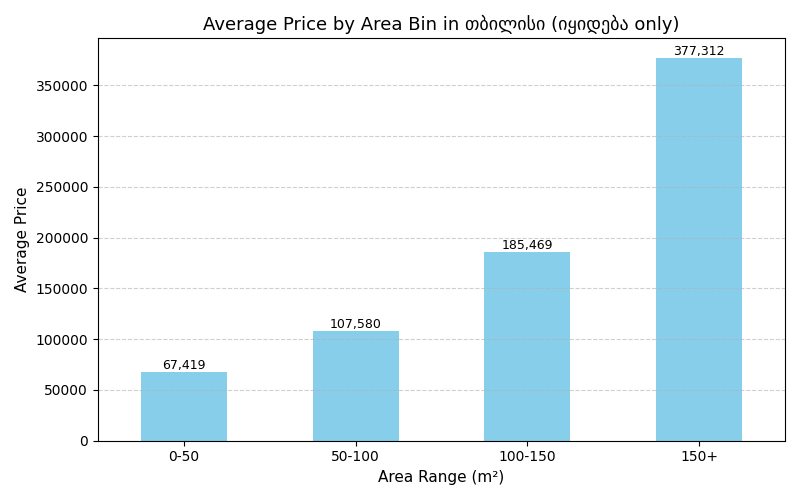
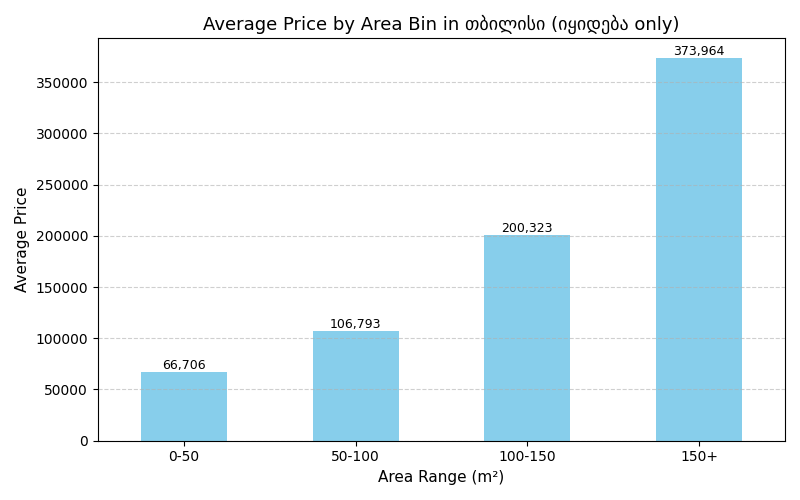
more data, updated charts

diff --git a/frontend/html/analysis.html b/frontend/html/analysis.html
@@ -1,28 +1,30 @@
-<div id="analysis-view">
-  <h1 class="text-3xl font-bold text-center text-gray-800 mb-8">
-    Apartment Analysis Dashboard
-  </h1>
+<body class="min-h-screen flex flex-col"></body>
+  <div id="analysis-view" class="flex flex-col flex-1">
+    <h1 class="text-3xl font-bold text-center text-gray-800 mb-8">
+      Apartment Analysis Dashboard
+    </h1>
 
-  <nav class="flex flex-col items-center gap-4">
-    <div class="text-center space-x-2">
-      <button id="btn-distribution" class="px-4 py-2 rounded-md text-white bg-gray-800 hover:bg-green-600 transition-colors active:bg-green-600">City Distribution</button>
-      <button id="btn-price-by-city" class="px-4 py-2 rounded-md text-white bg-gray-800 hover:bg-green-600 transition-colors">Avg Price by City</button>
-      <button id="btn-price-per-sqm" class="px-4 py-2 rounded-md text-white bg-gray-800 hover:bg-green-600 transition-colors">Avg Price per m² by City</button>
-      <button id="btn-price-by-street" class="px-4 py-2 rounded-md text-white bg-gray-800 hover:bg-green-600 transition-colors">Avg Price by Street</button>
-      <button id="btn-area-bin" class="px-4 py-2 rounded-md text-white bg-gray-800 hover:bg-green-600 transition-colors">Price by Area Bin per City</button>
+    <nav class="flex flex-col items-center gap-4">
+      <div class="text-center space-x-2">
+        <button id="btn-distribution" class="px-4 py-2 rounded-md text-white bg-gray-800 hover:bg-green-600 transition-colors active:bg-green-600">City Distribution</button>
+        <button id="btn-price-by-city" class="px-4 py-2 rounded-md text-white bg-gray-800 hover:bg-green-600 transition-colors">Avg Price by City</button>
+        <button id="btn-price-per-sqm" class="px-4 py-2 rounded-md text-white bg-gray-800 hover:bg-green-600 transition-colors">Avg Price per m² by City</button>
+        <button id="btn-price-by-street" class="px-4 py-2 rounded-md text-white bg-gray-800 hover:bg-green-600 transition-colors">Avg Price by Street</button>
+        <button id="btn-area-bin" class="px-4 py-2 rounded-md text-white bg-gray-800 hover:bg-green-600 transition-colors">Price by Area Bin per City</button>
+      </div>
+
+      <div class="text-center">
+        <label for="city-select" class="sr-only">Select City</label>
+        <select id="city-select" class="hidden ml-2 px-3 py-2 text-base border border-gray-300 rounded-md">
+          <option value="ბათუმი">ბათუმი</option>
+          <option value="თბილისი">თბილისი</option>
+          <option value="ქუთაისი" selected>ქუთაისი</option>
+        </select>
+      </div>
+    </nav>
+
+    <div id="charts" class="flex flex-wrap justify-center gap-5 mt-5 flex-1 overflow-auto">
+      <!-- Charts will be inserted here -->
     </div>
-
-    <div class="text-center">
-      <label for="city-select" class="sr-only">Select City</label>
-      <select id="city-select" class="hidden ml-2 px-3 py-2 text-base border border-gray-300 rounded-md">
-        <option value="ბათუმი">ბათუმი</option>
-        <option value="თბილისი">თბილისი</option>
-        <option value="ქუთაისი" selected>ქუთაისი</option>
-      </select>
-    </div>
-  </nav>
-
-  <div id="charts" class="flex flex-wrap justify-center gap-5 mt-5">
-    <!-- Charts will be inserted here dynamically by JavaScript -->
   </div>
-</div>
+</body>

diff --git a/frontend/js/analysis.js b/frontend/js/analysis.js
@@ -23,11 +23,12 @@ window.initAnalysisView = function () {
     paths.forEach(path => {
       const img = document.createElement('img');
       img.src = path;
-      img.className = 'max-w-full h-auto max-h-[700px] rounded-lg shadow-md';
+      img.className = 'w-full h-auto max-h-[200px] object-contain rounded-lg shadow-md';
       chartsDiv.appendChild(img);
     });
   }
 
+  // gets all the nav buttons inside a div with id = "analysis-view"
   const buttons = document.getElementById("analysis-view").querySelectorAll("nav button");
 
   function resetButtonStyles() {

diff --git a/frontend/js/home.js b/frontend/js/home.js
@@ -35,8 +35,6 @@ document.addEventListener('DOMContentLoaded', () => {
 
   loadView("analysis", "/js/analysis.js");  // Load analysis by default
 
-  navAnalysis.addEventListener('click', () =>
-      loadView('analysis', "/js/analysis.js"));
-  navPrediction.addEventListener('click', () =>
-      loadView('prediction', "/js/prediction.js"));
+  navAnalysis.addEventListener('click', () => loadView('analysis', "/js/analysis.js"));
+  navPrediction.addEventListener('click', () => loadView('prediction', "/js/prediction.js"));
 });

diff --git a/main.py b/main.py
@@ -19,10 +19,10 @@ if __name__ == "__main__":
     def run_sshome():
         SSHomeScraper().scraper()
 
-    # with ThreadPoolExecutor(max_workers=3) as executor:
-    #     futures = [executor.submit(run_myhome), executor.submit(run_livo), executor.submit(run_sshome)]
-    #     for future in futures:
-    #         future.result()  # Ensures any exceptions are raised
+    with ThreadPoolExecutor(max_workers=3) as executor:
+        futures = [executor.submit(run_myhome), executor.submit(run_livo), executor.submit(run_sshome)]
+        for future in futures:
+            future.result()  # Ensures any exceptions are raised
 
     """ Step 2: Data cleaning and transformation """
     data_cleaning = DataCleaning()
